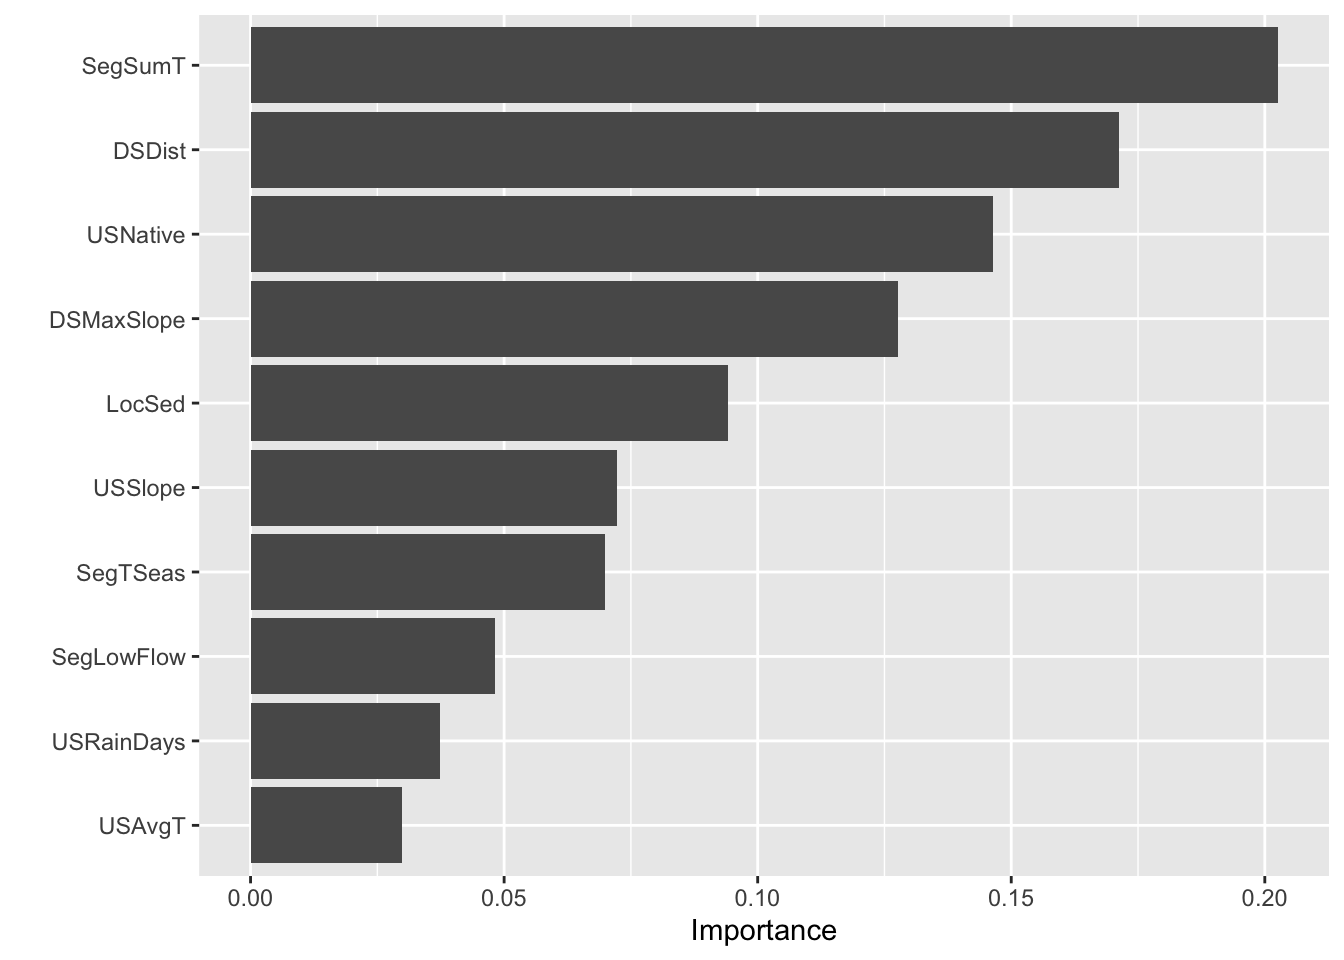
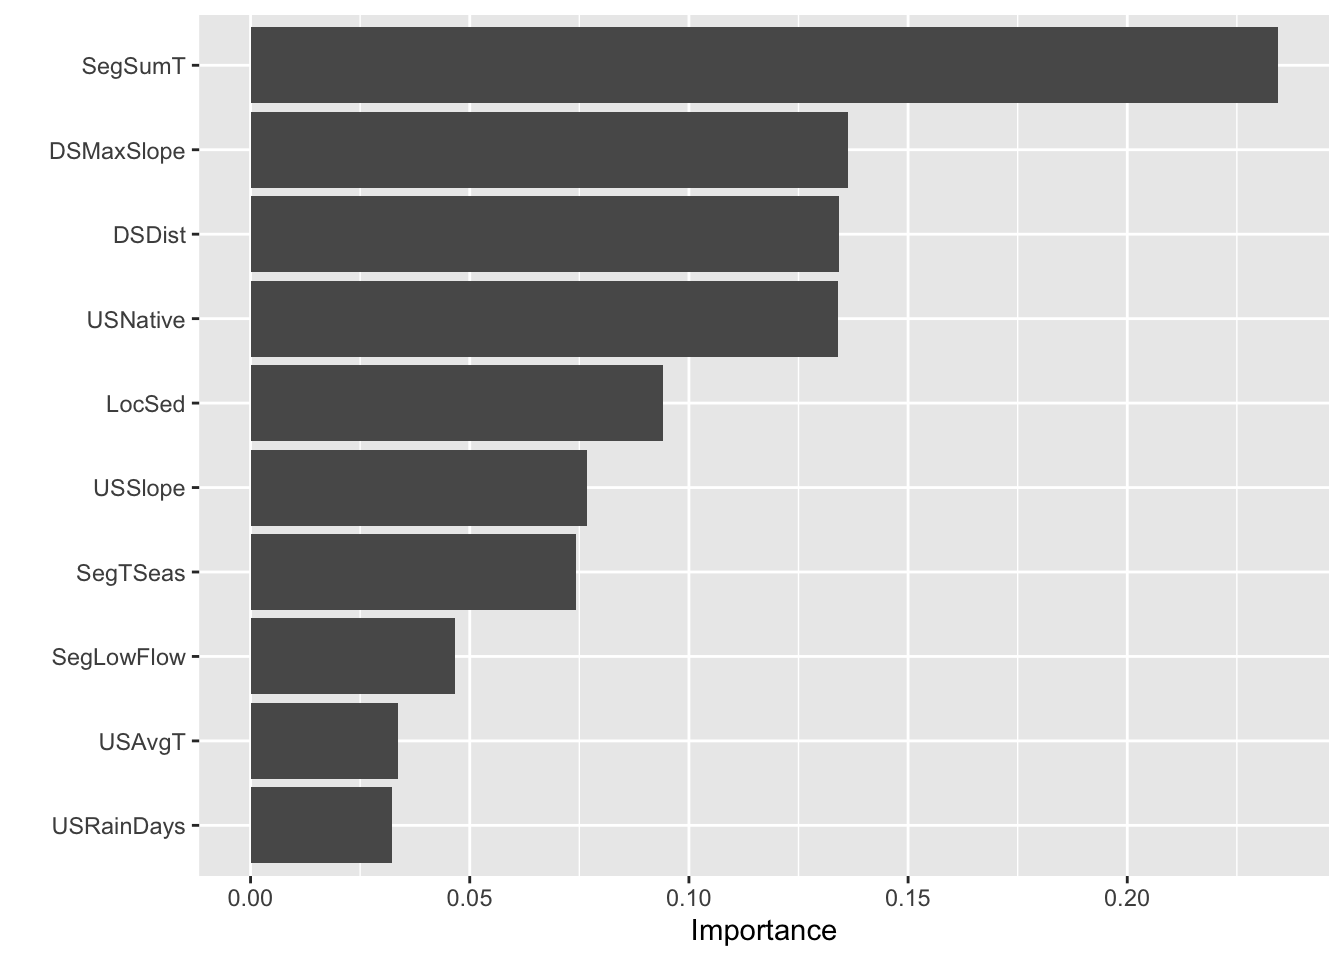
well i rendered it again let's see if it works but I doubt it honestly

diff --git a/docs/Posts/eel_model/index.html b/docs/Posts/eel_model/index.html
@@ -216,7 +216,7 @@ code span.wa { color: #60a0b0; font-weight: bold; font-style: italic; } /* Warni
   <li><a href="#tune-stochastic-parameters" id="toc-tune-stochastic-parameters" class="nav-link" data-scroll-target="#tune-stochastic-parameters">Tune Stochastic Parameters</a></li>
   </ul></li>
   <li><a href="#finalize-workflow-and-make-final-prediction" id="toc-finalize-workflow-and-make-final-prediction" class="nav-link" data-scroll-target="#finalize-workflow-and-make-final-prediction">Finalize workflow and make final prediction</a></li>
-  <li><a href="#fit-your-model-the-evaluation-data-and-compare-performance" id="toc-fit-your-model-the-evaluation-data-and-compare-performance" class="nav-link" data-scroll-target="#fit-your-model-the-evaluation-data-and-compare-performance">Fit your model the evaluation data and compare performance</a></li>
+  <li><a href="#fit-the-model-to-the-evaluation-data-and-compare-performance" id="toc-fit-the-model-to-the-evaluation-data-and-compare-performance" class="nav-link" data-scroll-target="#fit-the-model-to-the-evaluation-data-and-compare-performance">Fit the model to the evaluation data and compare performance</a></li>
   <li><a href="#variable-importance" id="toc-variable-importance" class="nav-link" data-scroll-target="#variable-importance">Variable Importance</a></li>
   <li><a href="#discussion" id="toc-discussion" class="nav-link" data-scroll-target="#discussion">Discussion</a></li>
   </ul>
@@ -277,7 +277,7 @@ The following object is masked from 'package:purrr':
 ✖ yardstick::spec()        masks readr::spec()
 ✖ yardstick::specificity() masks caret::specificity()
 ✖ recipes::step()          masks stats::step()
-• Dig deeper into tidy modeling with R at https://www.tmwr.org</code></pre>
+• Search for functions across packages at https://www.tidymodels.org/find/</code></pre>
 </div>
 <div class="sourceCode cell-code" id="cb7"><pre class="sourceCode r code-with-copy"><code class="sourceCode r"><span id="cb7-1"><a href="#cb7-1" aria-hidden="true" tabindex="-1"></a><span class="fu">library</span>(gbm)</span></code><button title="Copy to Clipboard" class="code-copy-button"><i class="bi"></i></button></pre></div>
 <div class="cell-output cell-output-stderr">
@@ -397,7 +397,7 @@ dbl (13): Site, Angaus, SegSumT, SegTSeas, SegLowFlow, DSDist, DSMaxSlope, U...
 <span id="cb19-15"><a href="#cb19-15" aria-hidden="true" tabindex="-1"></a>end_time1 <span class="ot">&lt;-</span> <span class="fu">Sys.time</span>()</span>
 <span id="cb19-16"><a href="#cb19-16" aria-hidden="true" tabindex="-1"></a><span class="fu">print</span>(<span class="fu">paste</span>(<span class="st">"time elapsed:"</span>, (end_time1 <span class="sc">-</span> start_time1)))</span></code><button title="Copy to Clipboard" class="code-copy-button"><i class="bi"></i></button></pre></div>
 <div class="cell-output cell-output-stdout">
-<pre><code>[1] "time elapsed: 2.00375526779228"</code></pre>
+<pre><code>[1] "time elapsed: 5.83796453078588"</code></pre>
 </div>
 </div>
 <ol start="3" type="1">
@@ -409,11 +409,11 @@ dbl (13): Site, Angaus, SegSumT, SegTSeas, SegLowFlow, DSDist, DSMaxSlope, U...
 <pre><code># A tibble: 5 × 7
   learn_rate .metric .estimator  mean     n std_err .config              
        &lt;dbl&gt; &lt;chr&gt;   &lt;chr&gt;      &lt;dbl&gt; &lt;int&gt;   &lt;dbl&gt; &lt;chr&gt;                
-1     0.290  roc_auc binary     0.814    10  0.0164 Preprocessor1_Model29
-2     0.207  roc_auc binary     0.813    10  0.0169 Preprocessor1_Model21
-3     0.0311 roc_auc binary     0.812    10  0.0162 Preprocessor1_Model04
-4     0.186  roc_auc binary     0.811    10  0.0192 Preprocessor1_Model19
-5     0.238  roc_auc binary     0.810    10  0.0178 Preprocessor1_Model24</code></pre>
+1     0.0725 roc_auc binary     0.821    10  0.0214 Preprocessor1_Model08
+2     0.0518 roc_auc binary     0.820    10  0.0205 Preprocessor1_Model06
+3     0.104  roc_auc binary     0.820    10  0.0241 Preprocessor1_Model11
+4     0.269  roc_auc binary     0.819    10  0.0223 Preprocessor1_Model27
+5     0.207  roc_auc binary     0.819    10  0.0241 Preprocessor1_Model21</code></pre>
 </div>
 <div class="sourceCode cell-code" id="cb23"><pre class="sourceCode r code-with-copy"><code class="sourceCode r"><span id="cb23-1"><a href="#cb23-1" aria-hidden="true" tabindex="-1"></a><span class="co"># --- learn rate = 0.04146552... use this because the paper did</span></span>
 <span id="cb23-2"><a href="#cb23-2" aria-hidden="true" tabindex="-1"></a><span class="fu">show_best</span>(tune_learn, <span class="at">metric =</span> <span class="st">"accuracy"</span>) </span></code><button title="Copy to Clipboard" class="code-copy-button"><i class="bi"></i></button></pre></div>
@@ -421,11 +421,11 @@ dbl (13): Site, Angaus, SegSumT, SegTSeas, SegLowFlow, DSDist, DSMaxSlope, U...
 <pre><code># A tibble: 5 × 7
   learn_rate .metric  .estimator  mean     n std_err .config              
        &lt;dbl&gt; &lt;chr&gt;    &lt;chr&gt;      &lt;dbl&gt; &lt;int&gt;   &lt;dbl&gt; &lt;chr&gt;                
-1     0.0208 accuracy binary     0.831    10 0.00859 Preprocessor1_Model03
-2     0.0104 accuracy binary     0.831    10 0.00695 Preprocessor1_Model02
-3     0.0311 accuracy binary     0.830    10 0.00850 Preprocessor1_Model04
-4     0.104  accuracy binary     0.827    10 0.00875 Preprocessor1_Model11
-5     0.0725 accuracy binary     0.827    10 0.00978 Preprocessor1_Model08</code></pre>
+1     0.259  accuracy binary     0.823    10 0.00873 Preprocessor1_Model26
+2     0.124  accuracy binary     0.821    10 0.0112  Preprocessor1_Model13
+3     0.207  accuracy binary     0.821    10 0.0110  Preprocessor1_Model21
+4     0.176  accuracy binary     0.818    10 0.0118  Preprocessor1_Model18
+5     0.0104 accuracy binary     0.818    10 0.0123  Preprocessor1_Model02</code></pre>
 </div>
 </div>
 </section>
@@ -482,18 +482,18 @@ dbl (13): Site, Angaus, SegSumT, SegTSeas, SegLowFlow, DSDist, DSMaxSlope, U...
 <span id="cb27-8"><a href="#cb27-8" aria-hidden="true" tabindex="-1"></a>end_time1 <span class="ot">&lt;-</span> <span class="fu">Sys.time</span>()</span>
 <span id="cb27-9"><a href="#cb27-9" aria-hidden="true" tabindex="-1"></a><span class="fu">print</span>(<span class="fu">paste</span>(<span class="st">"time elapsed:"</span>, (end_time1 <span class="sc">-</span> start_time1)))</span></code><button title="Copy to Clipboard" class="code-copy-button"><i class="bi"></i></button></pre></div>
 <div class="cell-output cell-output-stdout">
-<pre><code>[1] "time elapsed: 9.25062733491262"</code></pre>
+<pre><code>[1] "time elapsed: 11.8651802341143"</code></pre>
 </div>
 <div class="sourceCode cell-code" id="cb29"><pre class="sourceCode r code-with-copy"><code class="sourceCode r"><span id="cb29-1"><a href="#cb29-1" aria-hidden="true" tabindex="-1"></a><span class="fu">show_best</span>(tune_tree, <span class="at">metric =</span> <span class="st">"roc_auc"</span>)</span></code><button title="Copy to Clipboard" class="code-copy-button"><i class="bi"></i></button></pre></div>
 <div class="cell-output cell-output-stdout">
 <pre><code># A tibble: 5 × 9
   min_n tree_depth loss_reduction .metric .estimator  mean     n std_err .config
   &lt;int&gt;      &lt;int&gt;          &lt;dbl&gt; &lt;chr&gt;   &lt;chr&gt;      &lt;dbl&gt; &lt;int&gt;   &lt;dbl&gt; &lt;chr&gt;  
-1     8          3       5.80e+ 0 roc_auc binary     0.832    10  0.0105 Prepro…
-2     5         10       1.03e+ 1 roc_auc binary     0.830    10  0.0101 Prepro…
-3    13         15       2.26e+ 0 roc_auc binary     0.828    10  0.0107 Prepro…
-4    15          1       3.50e-10 roc_auc binary     0.824    10  0.0162 Prepro…
-5    18         10       3.52e-10 roc_auc binary     0.822    10  0.0154 Prepro…</code></pre>
+1     3         14       4.98e- 9 roc_auc binary     0.831    10  0.0209 Prepro…
+2    15         11       2.75e+ 0 roc_auc binary     0.830    10  0.0187 Prepro…
+3     2         15       2.35e- 6 roc_auc binary     0.829    10  0.0202 Prepro…
+4     4          7       1.63e-10 roc_auc binary     0.828    10  0.0238 Prepro…
+5     3          9       1.48e- 5 roc_auc binary     0.827    10  0.0213 Prepro…</code></pre>
 </div>
 <div class="sourceCode cell-code" id="cb31"><pre class="sourceCode r code-with-copy"><code class="sourceCode r"><span id="cb31-1"><a href="#cb31-1" aria-hidden="true" tabindex="-1"></a><span class="co"># best value for min_n: 17</span></span>
 <span id="cb31-2"><a href="#cb31-2" aria-hidden="true" tabindex="-1"></a><span class="co"># best value for tree_depth: 11</span></span>
@@ -529,7 +529,7 @@ dbl (13): Site, Angaus, SegSumT, SegTSeas, SegLowFlow, DSDist, DSMaxSlope, U...
 </ol>
 <div class="cell">
 <div class="sourceCode cell-code" id="cb33"><pre class="sourceCode r code-with-copy"><code class="sourceCode r"><span id="cb33-1"><a href="#cb33-1" aria-hidden="true" tabindex="-1"></a>stoch_param <span class="ot">&lt;-</span> dials<span class="sc">::</span><span class="fu">parameters</span>(</span>
-<span id="cb33-2"><a href="#cb33-2" aria-hidden="true" tabindex="-1"></a>  <span class="fu">finalize</span>(<span class="fu">mtry</span>(), <span class="fu">select</span>(eel_train, <span class="sc">-</span>Angaus)), </span>
+<span id="cb33-2"><a href="#cb33-2" aria-hidden="true" tabindex="-1"></a>  <span class="fu">finalize</span>(<span class="fu">mtry</span>(), dplyr<span class="sc">::</span><span class="fu">select</span>(eel_train, <span class="sc">-</span>Angaus)), </span>
 <span id="cb33-3"><a href="#cb33-3" aria-hidden="true" tabindex="-1"></a>  <span class="at">sample_size =</span> <span class="fu">sample_prop</span>(<span class="fu">c</span>(<span class="fl">0.4</span>, <span class="fl">0.9</span>))</span>
 <span id="cb33-4"><a href="#cb33-4" aria-hidden="true" tabindex="-1"></a>)</span>
 <span id="cb33-5"><a href="#cb33-5" aria-hidden="true" tabindex="-1"></a>stoch_grid <span class="ot">&lt;-</span> <span class="fu">grid_max_entropy</span>(stoch_param, <span class="at">size =</span> <span class="dv">60</span>)</span></code><button title="Copy to Clipboard" class="code-copy-button"><i class="bi"></i></button></pre></div>
@@ -548,18 +548,18 @@ dbl (13): Site, Angaus, SegSumT, SegTSeas, SegLowFlow, DSDist, DSMaxSlope, U...
 <span id="cb34-8"><a href="#cb34-8" aria-hidden="true" tabindex="-1"></a>end_time1 <span class="ot">&lt;-</span> <span class="fu">Sys.time</span>()</span>
 <span id="cb34-9"><a href="#cb34-9" aria-hidden="true" tabindex="-1"></a><span class="fu">print</span>(<span class="fu">paste</span>(<span class="st">"time elapsed:"</span>, (end_time1 <span class="sc">-</span> start_time1)))</span></code><button title="Copy to Clipboard" class="code-copy-button"><i class="bi"></i></button></pre></div>
 <div class="cell-output cell-output-stdout">
-<pre><code>[1] "time elapsed: 5.46083606077565"</code></pre>
+<pre><code>[1] "time elapsed: 20.4042701681455"</code></pre>
 </div>
 <div class="sourceCode cell-code" id="cb36"><pre class="sourceCode r code-with-copy"><code class="sourceCode r"><span id="cb36-1"><a href="#cb36-1" aria-hidden="true" tabindex="-1"></a><span class="fu">show_best</span>(tune_stoch, <span class="at">metric =</span> <span class="st">"roc_auc"</span>)</span></code><button title="Copy to Clipboard" class="code-copy-button"><i class="bi"></i></button></pre></div>
 <div class="cell-output cell-output-stdout">
 <pre><code># A tibble: 5 × 8
    mtry sample_size .metric .estimator  mean     n std_err .config              
   &lt;int&gt;       &lt;dbl&gt; &lt;chr&gt;   &lt;chr&gt;      &lt;dbl&gt; &lt;int&gt;   &lt;dbl&gt; &lt;chr&gt;                
-1     5       0.887 roc_auc binary     0.827    10  0.0160 Preprocessor1_Model05
-2     9       0.898 roc_auc binary     0.825    10  0.0165 Preprocessor1_Model27
-3     6       0.882 roc_auc binary     0.824    10  0.0163 Preprocessor1_Model57
-4     8       0.899 roc_auc binary     0.824    10  0.0169 Preprocessor1_Model04
-5     5       0.827 roc_auc binary     0.824    10  0.0160 Preprocessor1_Model54</code></pre>
+1     2       0.886 roc_auc binary     0.808    10  0.0214 Preprocessor1_Model07
+2     5       0.447 roc_auc binary     0.808    10  0.0257 Preprocessor1_Model32
+3     6       0.775 roc_auc binary     0.806    10  0.0242 Preprocessor1_Model40
+4     1       0.710 roc_auc binary     0.806    10  0.0241 Preprocessor1_Model60
+5     3       0.443 roc_auc binary     0.806    10  0.0249 Preprocessor1_Model10</code></pre>
 </div>
 <div class="sourceCode cell-code" id="cb38"><pre class="sourceCode r code-with-copy"><code class="sourceCode r"><span id="cb38-1"><a href="#cb38-1" aria-hidden="true" tabindex="-1"></a><span class="co"># best value for mtry: 1</span></span>
 <span id="cb38-2"><a href="#cb38-2" aria-hidden="true" tabindex="-1"></a><span class="co"># best value for sample size: 0.8932816</span></span></code><button title="Copy to Clipboard" class="code-copy-button"><i class="bi"></i></button></pre></div>
@@ -600,16 +600,16 @@ dbl (13): Site, Angaus, SegSumT, SegTSeas, SegLowFlow, DSDist, DSMaxSlope, U...
 # A tibble: 301 × 6
    .pred_0 .pred_1  .row .pred_class Angaus .config             
      &lt;dbl&gt;   &lt;dbl&gt; &lt;int&gt; &lt;fct&gt;       &lt;fct&gt;  &lt;chr&gt;               
- 1  0.0914  0.909      2 1           1      Preprocessor1_Model1
- 2  0.660   0.340      3 0           0      Preprocessor1_Model1
- 3  0.974   0.0261     7 0           0      Preprocessor1_Model1
- 4  0.873   0.127      8 0           0      Preprocessor1_Model1
- 5  0.796   0.204      9 0           0      Preprocessor1_Model1
- 6  0.949   0.0510    11 0           0      Preprocessor1_Model1
- 7  0.859   0.141     20 0           0      Preprocessor1_Model1
- 8  0.915   0.0850    21 0           0      Preprocessor1_Model1
- 9  0.986   0.0136    28 0           0      Preprocessor1_Model1
-10  0.709   0.291     36 0           0      Preprocessor1_Model1
+ 1   0.194 0.806       2 1           1      Preprocessor1_Model1
+ 2   0.812 0.188       4 0           0      Preprocessor1_Model1
+ 3   0.986 0.0136      6 0           0      Preprocessor1_Model1
+ 4   0.551 0.449      10 0           1      Preprocessor1_Model1
+ 5   0.968 0.0321     11 0           0      Preprocessor1_Model1
+ 6   0.996 0.00419    15 0           0      Preprocessor1_Model1
+ 7   0.215 0.785      18 1           1      Preprocessor1_Model1
+ 8   0.774 0.226      20 0           0      Preprocessor1_Model1
+ 9   0.969 0.0314     22 0           0      Preprocessor1_Model1
+10   0.985 0.0155     28 0           0      Preprocessor1_Model1
 # … with 291 more rows
 # ℹ Use `print(n = ...)` to see more rows</code></pre>
 </div>
@@ -617,7 +617,7 @@ dbl (13): Site, Angaus, SegSumT, SegTSeas, SegLowFlow, DSDist, DSMaxSlope, U...
 <span id="cb41-2"><a href="#cb41-2" aria-hidden="true" tabindex="-1"></a>boost_tree_accuracy <span class="ot">&lt;-</span> boost_tree_metrics<span class="sc">$</span>.estimate[<span class="dv">1</span>]</span>
 <span id="cb41-3"><a href="#cb41-3" aria-hidden="true" tabindex="-1"></a><span class="fu">print</span>(<span class="fu">paste0</span>(<span class="st">"the decision tree model accuracy came out to: "</span>, boost_tree_accuracy))</span></code><button title="Copy to Clipboard" class="code-copy-button"><i class="bi"></i></button></pre></div>
 <div class="cell-output cell-output-stdout">
-<pre><code>[1] "the decision tree model accuracy came out to: 0.820598006644518"</code></pre>
+<pre><code>[1] "the decision tree model accuracy came out to: 0.850498338870432"</code></pre>
 </div>
 </div>
 <ol start="2" type="1">
@@ -630,7 +630,7 @@ dbl (13): Site, Angaus, SegSumT, SegTSeas, SegLowFlow, DSDist, DSMaxSlope, U...
 <span id="cb43-3"><a href="#cb43-3" aria-hidden="true" tabindex="-1"></a></span>
 <span id="cb43-4"><a href="#cb43-4" aria-hidden="true" tabindex="-1"></a><span class="co"># make a simple table of just the predictions and actual values</span></span>
 <span id="cb43-5"><a href="#cb43-5" aria-hidden="true" tabindex="-1"></a>confusion_table <span class="ot">&lt;-</span> boost_predictions <span class="sc">|&gt;</span> </span>
-<span id="cb43-6"><a href="#cb43-6" aria-hidden="true" tabindex="-1"></a>  <span class="fu">select</span>(<span class="fu">c</span>(.pred_class, Angaus))</span>
+<span id="cb43-6"><a href="#cb43-6" aria-hidden="true" tabindex="-1"></a>  dplyr<span class="sc">::</span><span class="fu">select</span>(<span class="fu">c</span>(.pred_class, Angaus))</span>
 <span id="cb43-7"><a href="#cb43-7" aria-hidden="true" tabindex="-1"></a></span>
 <span id="cb43-8"><a href="#cb43-8" aria-hidden="true" tabindex="-1"></a><span class="co"># create a confusion matrix comparing the predictions with actual observations</span></span>
 <span id="cb43-9"><a href="#cb43-9" aria-hidden="true" tabindex="-1"></a><span class="fu">confusionMatrix</span>(<span class="at">data =</span> confusion_table<span class="sc">$</span>.pred_class, </span>
@@ -640,26 +640,26 @@ dbl (13): Site, Angaus, SegSumT, SegTSeas, SegLowFlow, DSDist, DSMaxSlope, U...
 
           Reference
 Prediction   0   1
-         0 215  29
-         1  25  32
+         0 226  31
+         1  14  30
                                           
-               Accuracy : 0.8206          
-                 95% CI : (0.7725, 0.8623)
+               Accuracy : 0.8505          
+                 95% CI : (0.8051, 0.8888)
     No Information Rate : 0.7973          
-    P-Value [Acc &gt; NIR] : 0.1761          
+    P-Value [Acc &gt; NIR] : 0.01109         
                                           
-                  Kappa : 0.431           
+                  Kappa : 0.4837          
                                           
- Mcnemar's Test P-Value : 0.6831          
+ Mcnemar's Test P-Value : 0.01707         
                                           
-            Sensitivity : 0.8958          
-            Specificity : 0.5246          
-         Pos Pred Value : 0.8811          
-         Neg Pred Value : 0.5614          
+            Sensitivity : 0.9417          
+            Specificity : 0.4918          
+         Pos Pred Value : 0.8794          
+         Neg Pred Value : 0.6818          
              Prevalence : 0.7973          
-         Detection Rate : 0.7143          
-   Detection Prevalence : 0.8106          
-      Balanced Accuracy : 0.7102          
+         Detection Rate : 0.7508          
+   Detection Prevalence : 0.8538          
+      Balanced Accuracy : 0.7167          
                                           
        'Positive' Class : 0               
                                           </code></pre>
@@ -667,8 +667,8 @@ Prediction   0   1
 </div>
 <p><strong>Well, looks like my model did OK. It got an accuracy of 0.8339 which is not too bad… from looking at the confusion matrix, most of the errors that were made were false negative predictions, which were over twice the number of false positive predictions.</strong></p>
 </section>
-<section id="fit-your-model-the-evaluation-data-and-compare-performance" class="level2">
-<h2 class="anchored" data-anchor-id="fit-your-model-the-evaluation-data-and-compare-performance">Fit your model the evaluation data and compare performance</h2>
+<section id="fit-the-model-to-the-evaluation-data-and-compare-performance" class="level2">
+<h2 class="anchored" data-anchor-id="fit-the-model-to-the-evaluation-data-and-compare-performance">Fit the model to the evaluation data and compare performance</h2>
 <ol type="1">
 <li>Now we will fit the final model to the big dataset used in the paper.</li>
 </ol>
@@ -713,29 +713,29 @@ dbl (12): Angaus_obs, SegSumT, SegTSeas, SegLowFlow, DSDist, DSMaxSlope, USA...
 
           Reference
 Prediction   0   1
-         0 370  57
-         1  23  50
-                                         
-               Accuracy : 0.84           
-                 95% CI : (0.8049, 0.871)
-    No Information Rate : 0.786          
-    P-Value [Acc &gt; NIR] : 0.0014538      
-                                         
-                  Kappa : 0.4622         
-                                         
- Mcnemar's Test P-Value : 0.0002247      
-                                         
-            Sensitivity : 0.9415         
-            Specificity : 0.4673         
-         Pos Pred Value : 0.8665         
-         Neg Pred Value : 0.6849         
-             Prevalence : 0.7860         
-         Detection Rate : 0.7400         
-   Detection Prevalence : 0.8540         
-      Balanced Accuracy : 0.7044         
-                                         
-       'Positive' Class : 0              
-                                         </code></pre>
+         0 374  57
+         1  19  50
+                                          
+               Accuracy : 0.848           
+                 95% CI : (0.8135, 0.8783)
+    No Information Rate : 0.786           
+    P-Value [Acc &gt; NIR] : 0.0002819       
+                                          
+                  Kappa : 0.4811          
+                                          
+ Mcnemar's Test P-Value : 2.194e-05       
+                                          
+            Sensitivity : 0.9517          
+            Specificity : 0.4673          
+         Pos Pred Value : 0.8677          
+         Neg Pred Value : 0.7246          
+             Prevalence : 0.7860          
+         Detection Rate : 0.7480          
+   Detection Prevalence : 0.8620          
+      Balanced Accuracy : 0.7095          
+                                          
+       'Positive' Class : 0               
+                                          </code></pre>
 </div>
 </div>
 <p><strong>Woohoo! we got an even better accuracy than with the testing data that we fit the model to!</strong> <strong>Accuracy was 84.4% Still over twice as many false negative errors than false positive ones</strong></p>

diff --git a/docs/posts.html b/docs/posts.html
@@ -182,7 +182,7 @@ Jared Petry
 </a>
 </div>
 </div>
-<div class="quarto-post image-right" data-index="1" data-listing-date-sort="1675238400000" data-listing-file-modified-sort="1680030839330" data-listing-reading-time-sort="9.365">
+<div class="quarto-post image-right" data-index="1" data-listing-date-sort="1675238400000" data-listing-file-modified-sort="1680147911911" data-listing-reading-time-sort="9.37">
 <div class="thumbnail">
 <p><a href="./Posts/eel_model/index.html"> <img src="./Posts/eel_model/eel.png" class="thumnail-image"> </a></p>
 </div>
